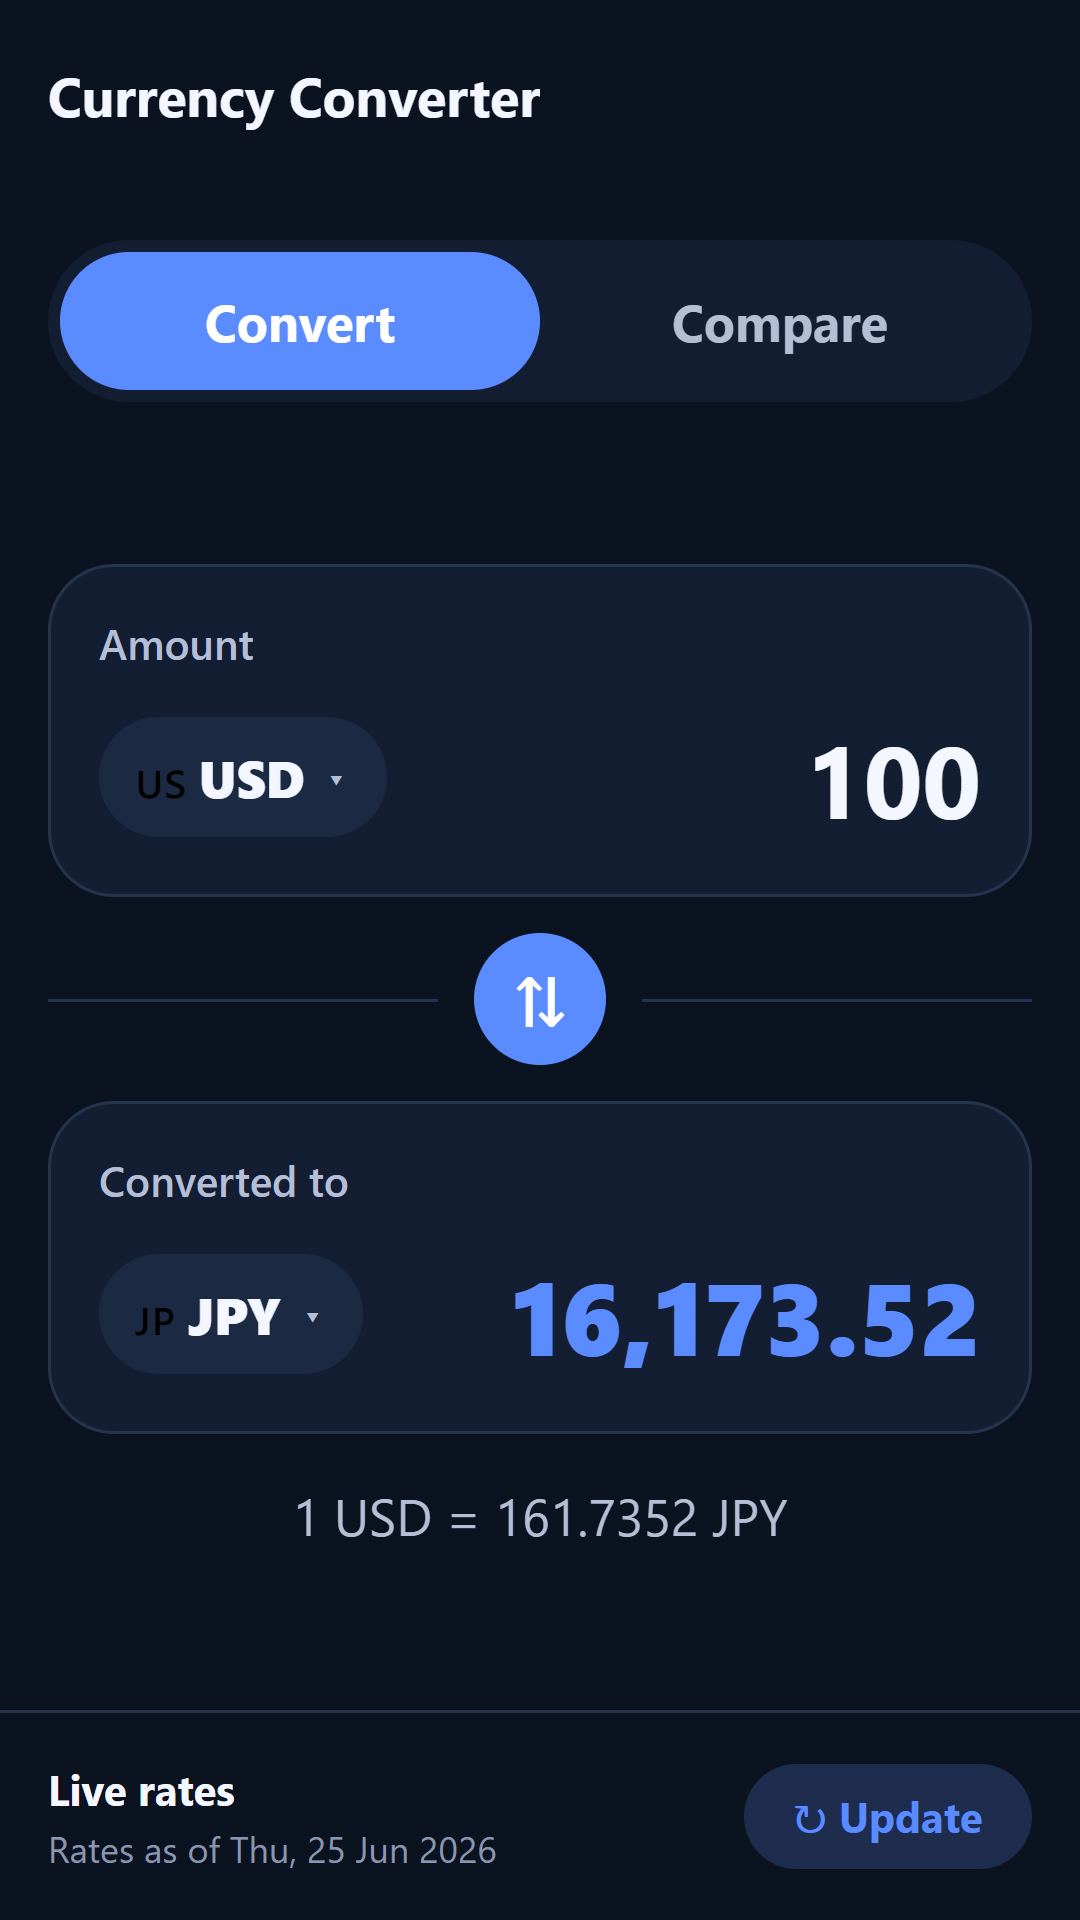
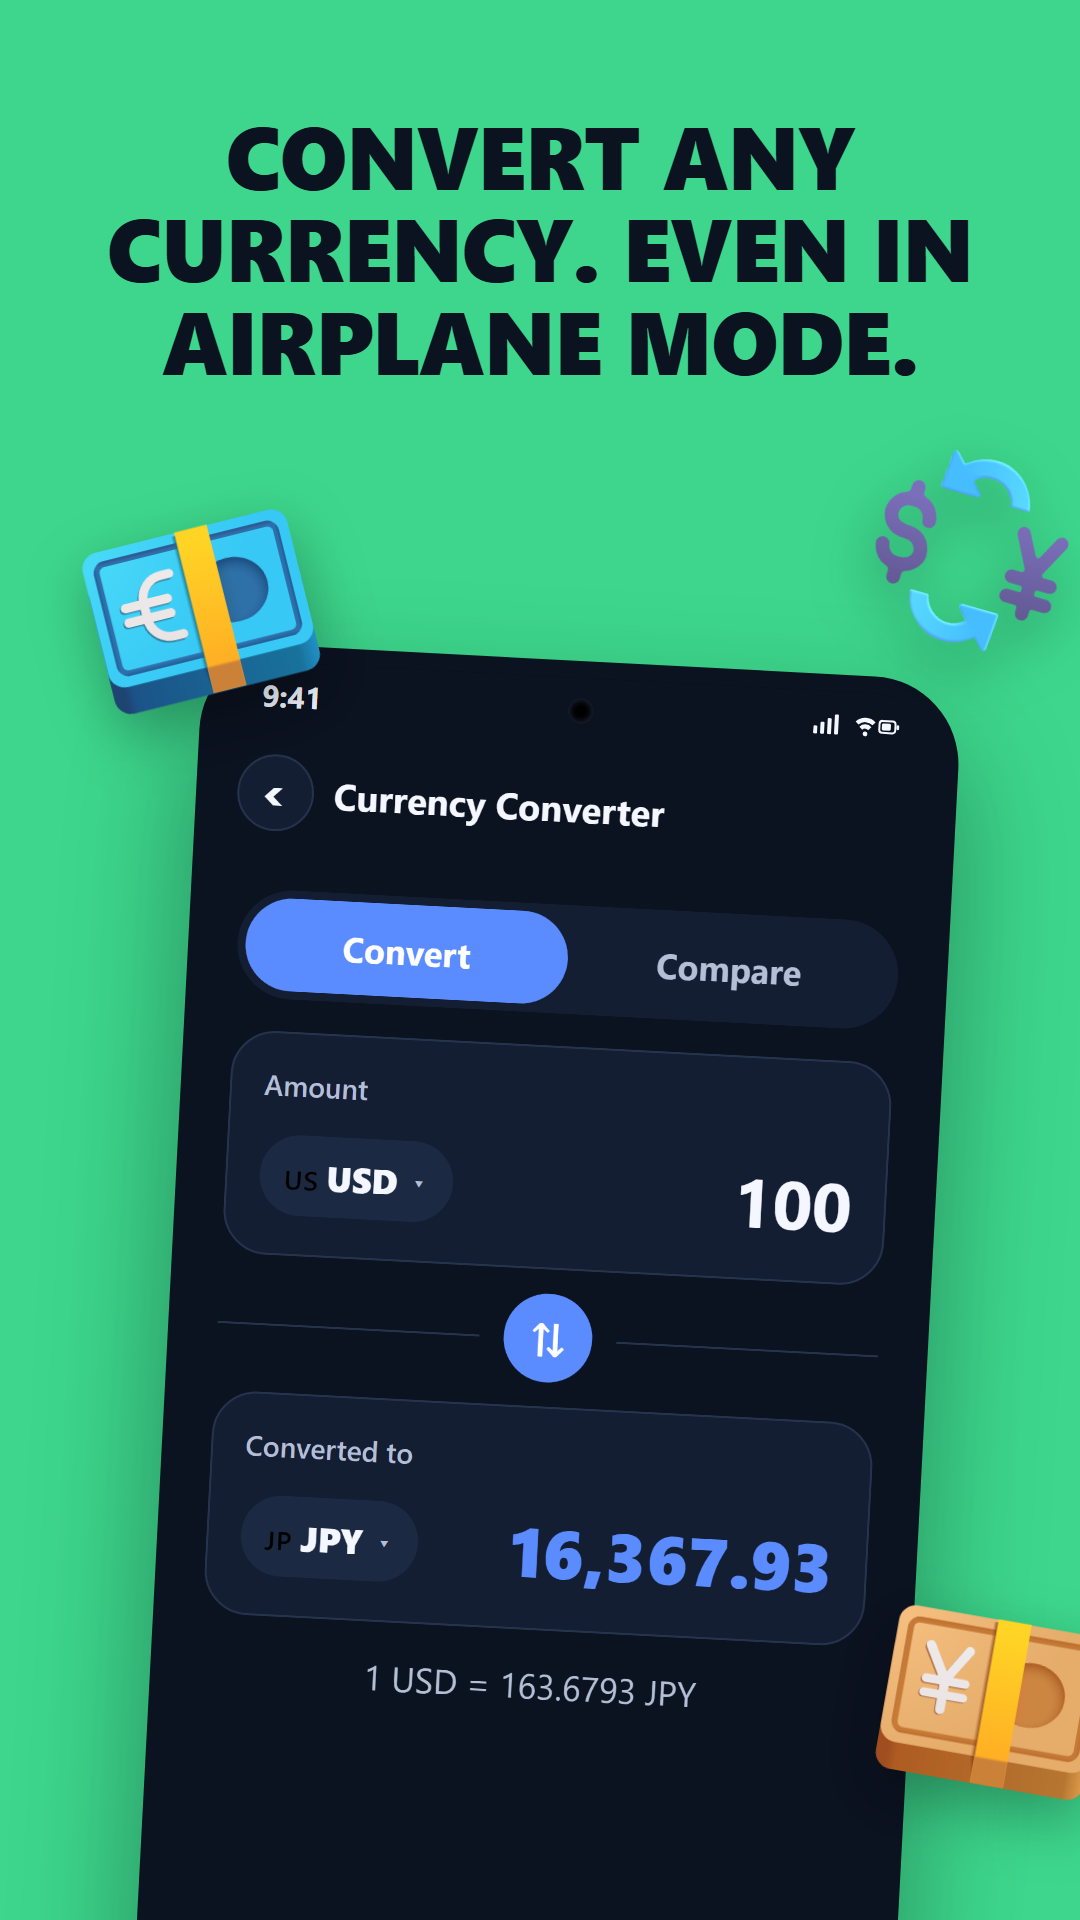
Store listing redesign: DoorDash-style screenshots, new copy
New 8-slide screenshot set (1080x1920): color-block backgrounds, benefit
headlines, framed captures with emoji props. Flashlight & SOS, Survival,
and Sun Times (real data) now showcased. Matching feature graphic.
Rewrote short/full description in play-listing.md: keyword-led short
description, SOS promoted to third bullet, no em dashes anywhere.

diff --git a/store/play-listing.md b/store/play-listing.md
@@ -1,4 +1,4 @@
-# RoamKit — Google Play Store Listing
+# RoamKit: Google Play Store Listing
 
 Copy/paste these into the Play Console "Main store listing" and related forms.
 
@@ -12,69 +12,70 @@ RoamKit: Offline Travel Tools
 
 ## Short description (max 80 chars)
 ```
-Offline currency converter, unit converter, world clock & travel tools. No data.
+Offline travel tools: currency, phrasebook, world clock, SOS light and more.
 ```
-(79 chars)
+(76 chars)
 
 ## Full description (max 4000 chars)
 ```
-RoamKit is your offline travel toolkit: a set of genuinely useful tools that
-work anywhere in the world, with no internet connection required.
+RoamKit is the travel toolkit that works when nothing else does. Every tool
+runs entirely on your phone, so you get answers instantly: no internet, no SIM
+card, no roaming charges.
 
-Landed in a new country with no SIM and roaming that costs a fortune? RoamKit
-still works. Everything runs on your device.
+New country, no data? Airplane mode? Halfway up a mountain? RoamKit works
+exactly the same.
 
 ★ WHAT'S INSIDE
 
-• Currency Converter: Convert between 30+ currencies completely offline, and
-  compare several at once. Rates are built in and refresh automatically whenever
-  you have internet, so you're always up to date. It even tells you how fresh the
-  rates are. Add your own currencies too.
+• Currency Converter: convert 30+ currencies completely offline and compare
+  several at once. Rates are built in, refresh automatically whenever you're
+  online, and always show you how fresh they are. You can even add your own
+  currencies.
 
-• Unit Converter: Length, weight, temperature and volume. Miles to kilometers,
-  pounds to kilograms, Fahrenheit to Celsius, and more.
+• Unit Converter: length, weight, temperature and volume. Miles to kilometers,
+  pounds to kilograms, Fahrenheit to Celsius in one tap.
 
-• Tip & Split: Work out the tip and split the bill between any number of people
-  in seconds. Round up per person with one tap.
+• Flashlight & SOS: a bright light, an SOS signal and a strobe, one tap away.
+  Made for camping trips, power cuts and real emergencies.
 
-• World Clock: See the time across the cities that matter to you, all at once.
-  Perfect for staying in sync with home while you travel.
+• Tip & Split: work out the tip and split the bill between any number of
+  people in seconds, with one-tap round up per person.
 
-• Phrasebook: Essential travel phrases in Spanish, French, German, Italian,
-  Portuguese and Japanese, with pronunciation. Tap to copy.
+• World Clock: every time zone that matters to you on one screen. Perfect for
+  staying in sync with home while you travel.
 
-• Sun Times: Offline sunrise and sunset times for wherever you are, calculated
-  on-device. Great for planning hikes and golden-hour photos.
+• Phrasebook: essential phrases in Spanish, French, German, Italian,
+  Portuguese and Japanese, with pronunciation guides. Tap any phrase to copy it.
 
-• Survival Guide: Quick offline reference for emergencies on the road.
+• Sun Times: sunrise, sunset, dawn and dusk for wherever you are, calculated
+  on your device. Perfect for planning hikes and golden hour photos.
 
-• Flashlight & SOS: Turn your phone into a light, an emergency SOS signal, or a
-  strobe. Great for camping and emergencies.
+• Survival Guide: first aid and outdoor emergency know-how, searchable and
+  ready with zero signal.
 
-★ ROAMKIT PRO (optional one-time purchase)
+★ ROAMKIT PRO: ONE PURCHASE, YOURS FOREVER
 
-Unlock the Pro tools with a single purchase, no subscription:
+No subscription. Unlock once and keep everything:
 
-• Trip Budget & Expenses: Track spending abroad, log expenses in any currency,
-  and see your daily and trip totals converted to your home currency.
+• Trip Budget: track spending abroad in any currency and see daily and trip
+  totals converted to your home currency automatically.
 
-• Spoken Phrasebook: Hear travel phrases spoken aloud.
+• Spoken Phrasebook: hear every phrase spoken out loud.
 
-• Compass: A simple offline compass for finding your way.
+• Compass: find your bearing anywhere, no signal needed.
 
-★ WHY ROAMKIT
+★ WHY TRAVELERS PICK ROAMKIT
 
-• Works 100% offline, no connection needed
-• No account, no sign-up
+• 100% offline: every tool works with no connection
+• No account and no sign-up
 • No ads, no tracking, no analytics
-• Clean, simple, fast
-• Your settings stay on your device
+• Fast, clean and easy to read
+• Everything stays on your device
 
-★ ALWAYS GROWING
+★ BUILT WITH YOU
 
-RoamKit is a toolkit that keeps expanding. Got an idea for a tool you'd love to
-have? Tap "Request a tool" right inside the app and tell us. New tools are
-added over time.
+RoamKit keeps growing. Want a tool that isn't in the kit yet? Tap "Request a
+tool" inside the app and tell us. The best ideas become new tools.
 
 Pack light. Roam far. Stay offline.
 ```
